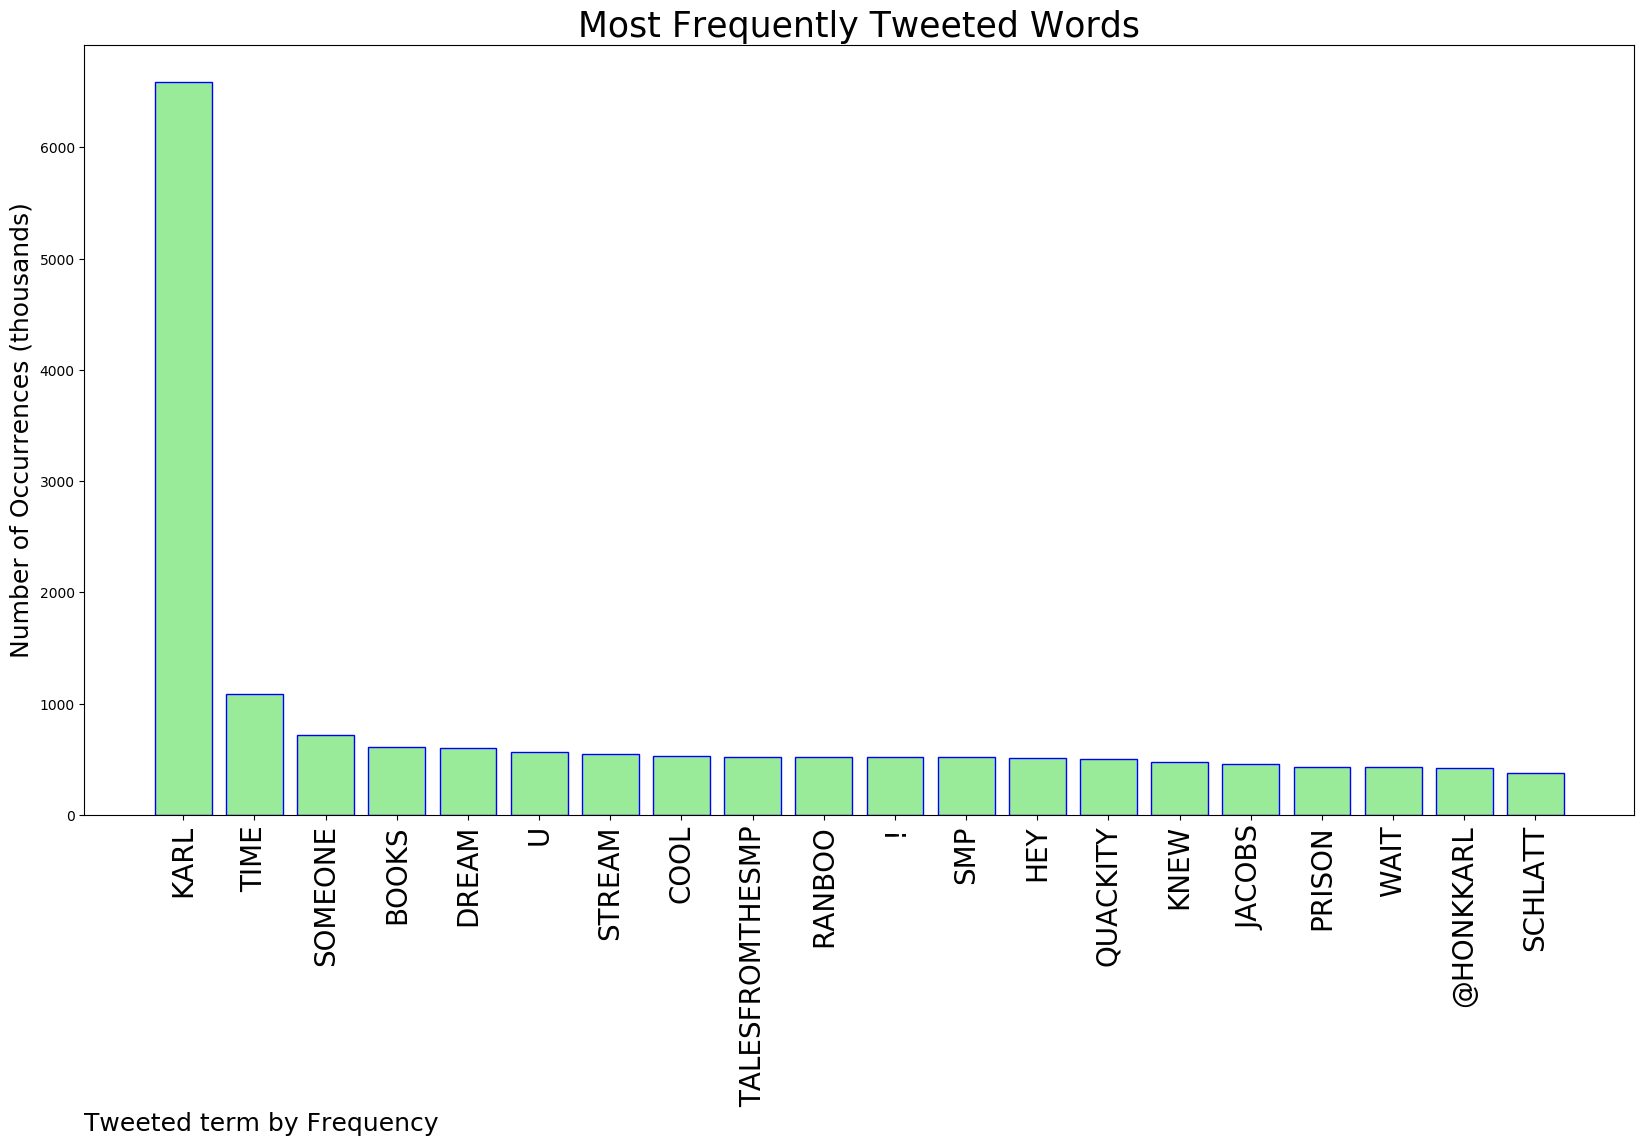
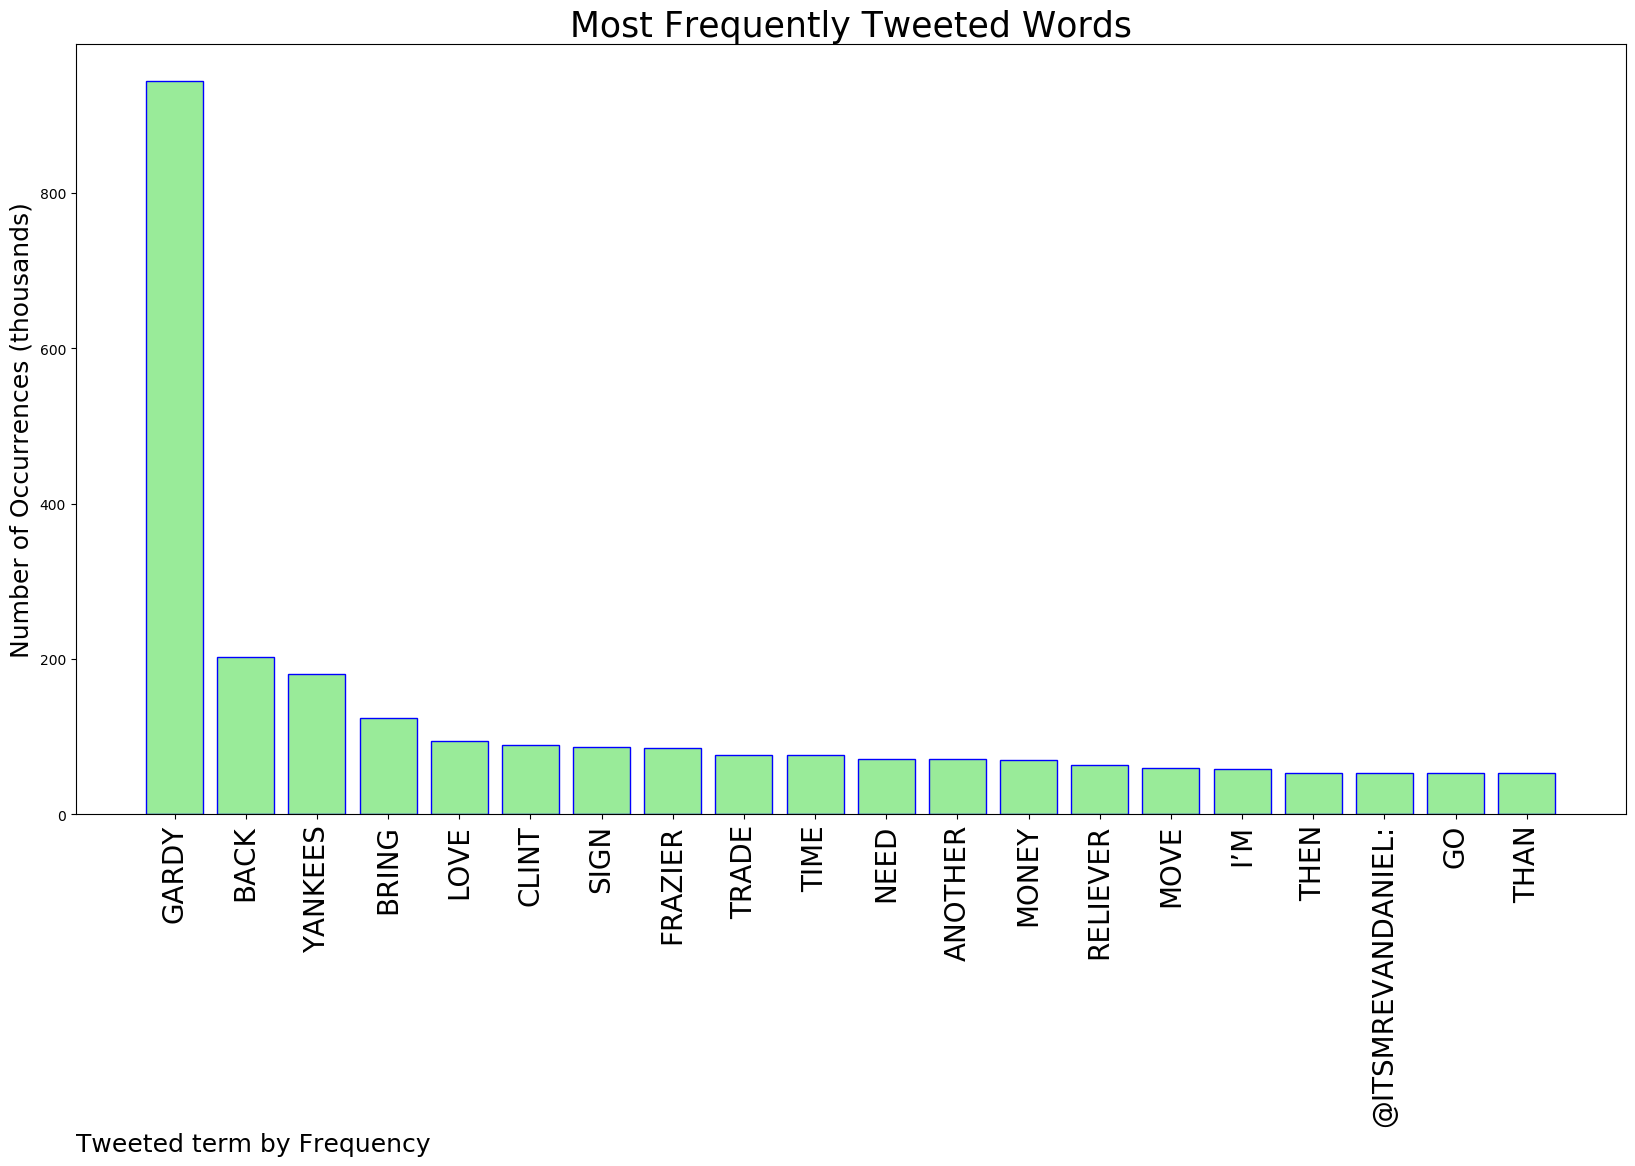
Updating with latest report

diff --git a/README.md b/README.md
@@ -1,5 +1,5 @@
 # MURCHIE85 TWITTER PROCESSING 
-&#x1F34E; **TOPIC = "karl"**
+&#x1F34E; **TOPIC = "Gardy"**
 
 ## AUTOMATED RESEARCH SUMMARY
 
@@ -15,21 +15,21 @@
 
 |                **Sample-Tweets**        |
 | :-------------: |
-| Just figured out a possible connection between Karl Schreck and Leopold MurnauI think of the former justicar as h… https://t.co/5xHVUEqUIN |
-| RT @ARGWiIbur: so karl is trying to fix everything and save his friends by putting his memory on the line but hes also fucking shit up at t… |
-| RT @drunkbcr: IF BAD DIES IN THIS LAVA AND THEORY OF RANBOO AND KARL BEING TOMMY AND TUBBOS DECENDANTS.... THAT MEANS ITLL BE THEM VS RANBO… |
+| I’m on the bring back Gardy train.. idc |
+| i love gardy, would be great to get him back, but with all the OFs on the roster, i think more of the OFs need to b… https://t.co/vrnG4FDlIb |
+| @The_Bleacherss @gingersnaphyde I’ll stop ranting. I love what Gardy provided to the team but it’s over for me. Appreciate you |
 
-The most popular user is: **Karl_Ekdahl**
-<div class="alert alert-block alert-danger"> RT @jimmykimmel: And that’s that. https://t.co/PKwLPv1Sxf</div>
+The most popular user is: **gardy_gee**
+<div class="alert alert-block alert-danger"> RT @manifestmomryan: Every Finger that RTs will be financial successful in February https://t.co/5ALuu1Jihf</div>
 
 ## RELATED METRICS<br>
 | Metric | Value |
 | ------------- | ------------- |
-| #1 Most tweeted to  | **honkkarl** |
-| #2 Most tweeted to  | **KarlJacobs_** |
-| #3 Most tweeted to  | **rachelsnotfound** |
-| NewProfiles (less than 10 days) | 2.11%  |
-| Tweeters with < 10 followers  | 8.93%|
+| #1 Most tweeted to  | **Jomboy_** |
+| #2 Most tweeted to  | **itsmrevandaniel** |
+| #3 Most tweeted to  | **TalkinYanks** |
+| NewProfiles (less than 10 days) | 0.07%  |
+| Tweeters with < 10 followers  | 3.6%|
 | Tweeters with > 1000000 followers  | 0.0%  |
 
 
@@ -39,11 +39,11 @@ The most popular user is: **Karl_Ekdahl**
 
 | Popularity Rank  | Term |
 | ------------- | ------------- |
-| first  | **KARL**  |
-| second  | **TIME**  |
-| third  | **SOMEONE** |
-| fourth  | **BOOKS**  |
-| fifth  | **DREAM**  |
+| first  | **GARDY**  |
+| second  | **BACK**  |
+| third  | **YANKEES** |
+| fourth  | **BRING**  |
+| fifth  | **LOVE**  |
 
 
 ## Twitter Bio Analysis![image](BIO.png)
@@ -54,13 +54,13 @@ VIEWS WERE : **SUBJECTIVE**  (13.33%) & **NEGATIVELY-SUBJECTIVE** (13.33%) **OBJ
 ### TWEET SAMPLE 
 | Random value picked from array |
 | ------------- |
-|No because the prison was 100% meant for karl Holyshittttt |
+|@theScoreMLB Move the moneyBring back Gardy Use the kids in his spot |
 
 ### MOST RETWEETED 
 
-| The most retweeted user is: **Karl_Ekdahl**  |
+| The most retweeted user is: **gardy_gee**  |
 | ------------- |
-| RT @jimmykimmel: And that’s that. https://t.co/PKwLPv1Sxf |
+| RT @manifestmomryan: Every Finger that RTs will be financial successful in February https://t.co/5ALuu1Jihf |
 
 ### CONCLUSION & EXTERNAL ANALYSIS
 
